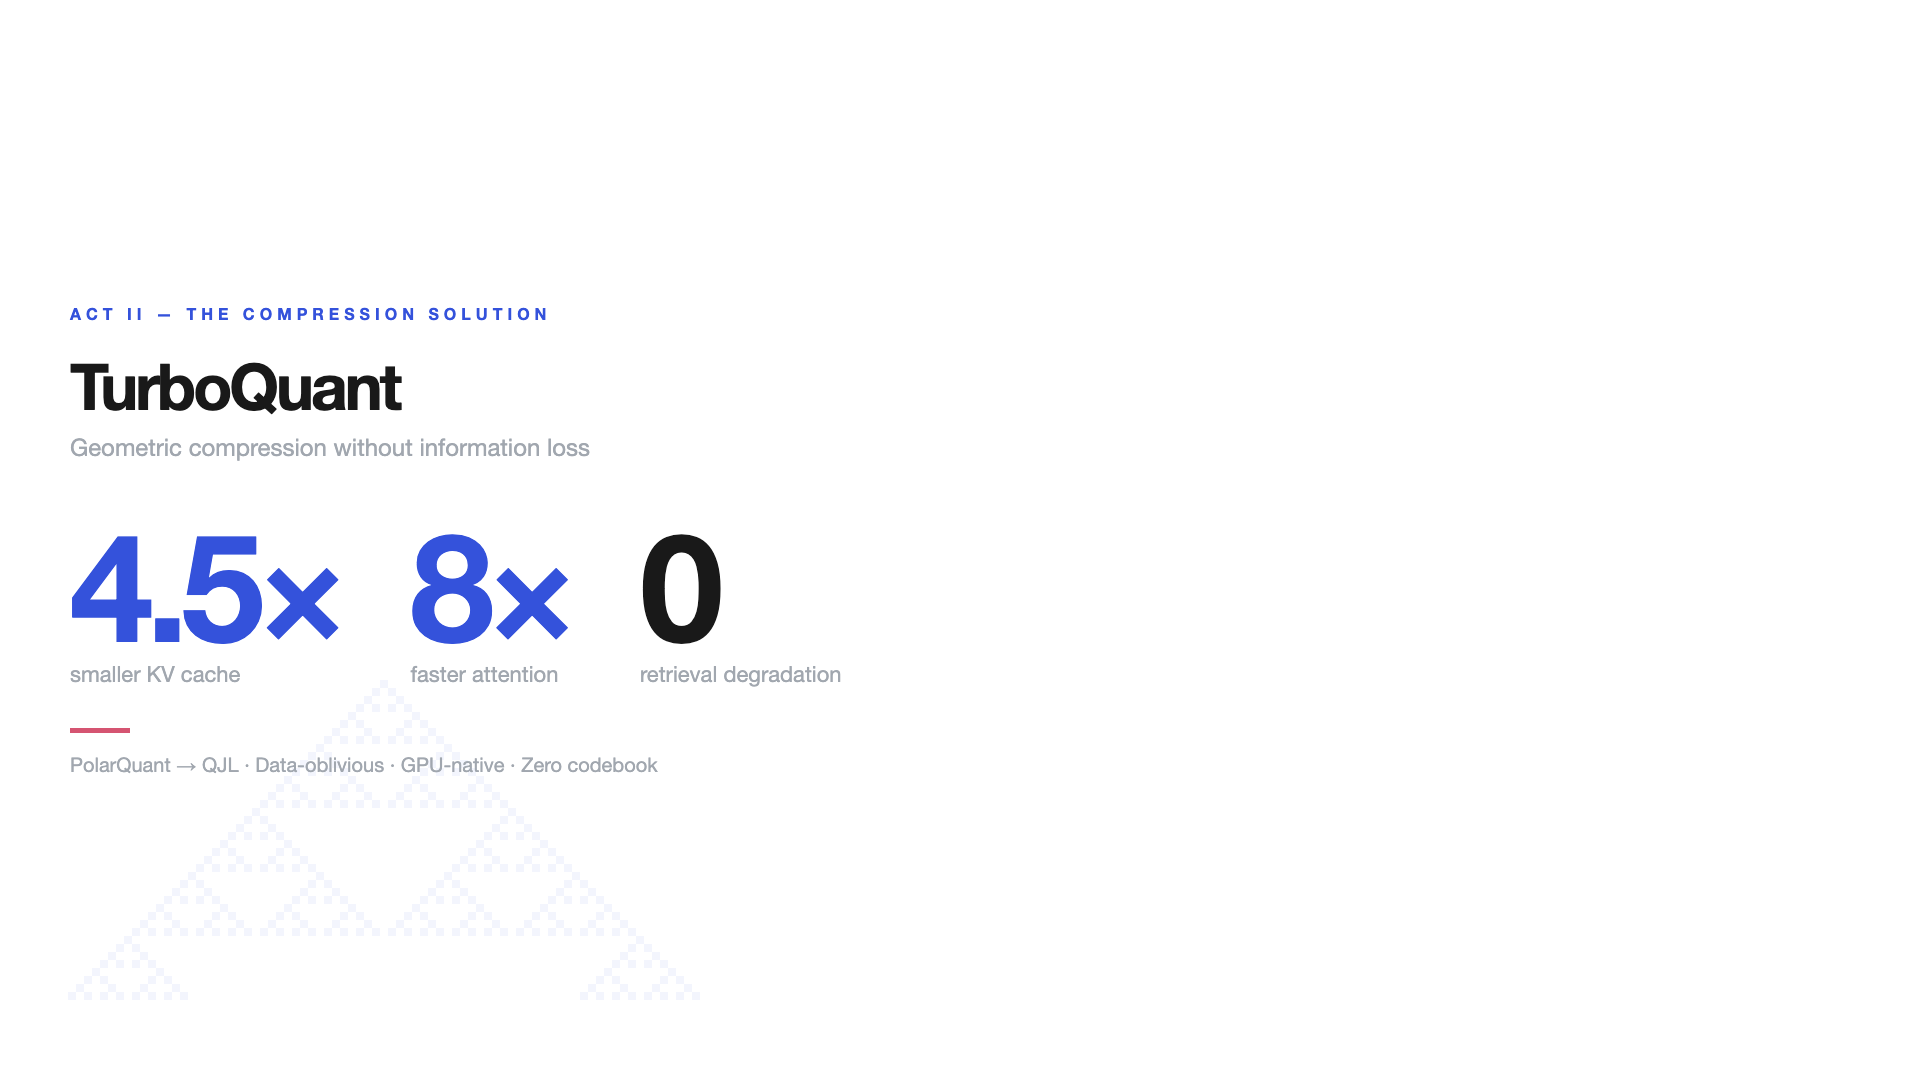
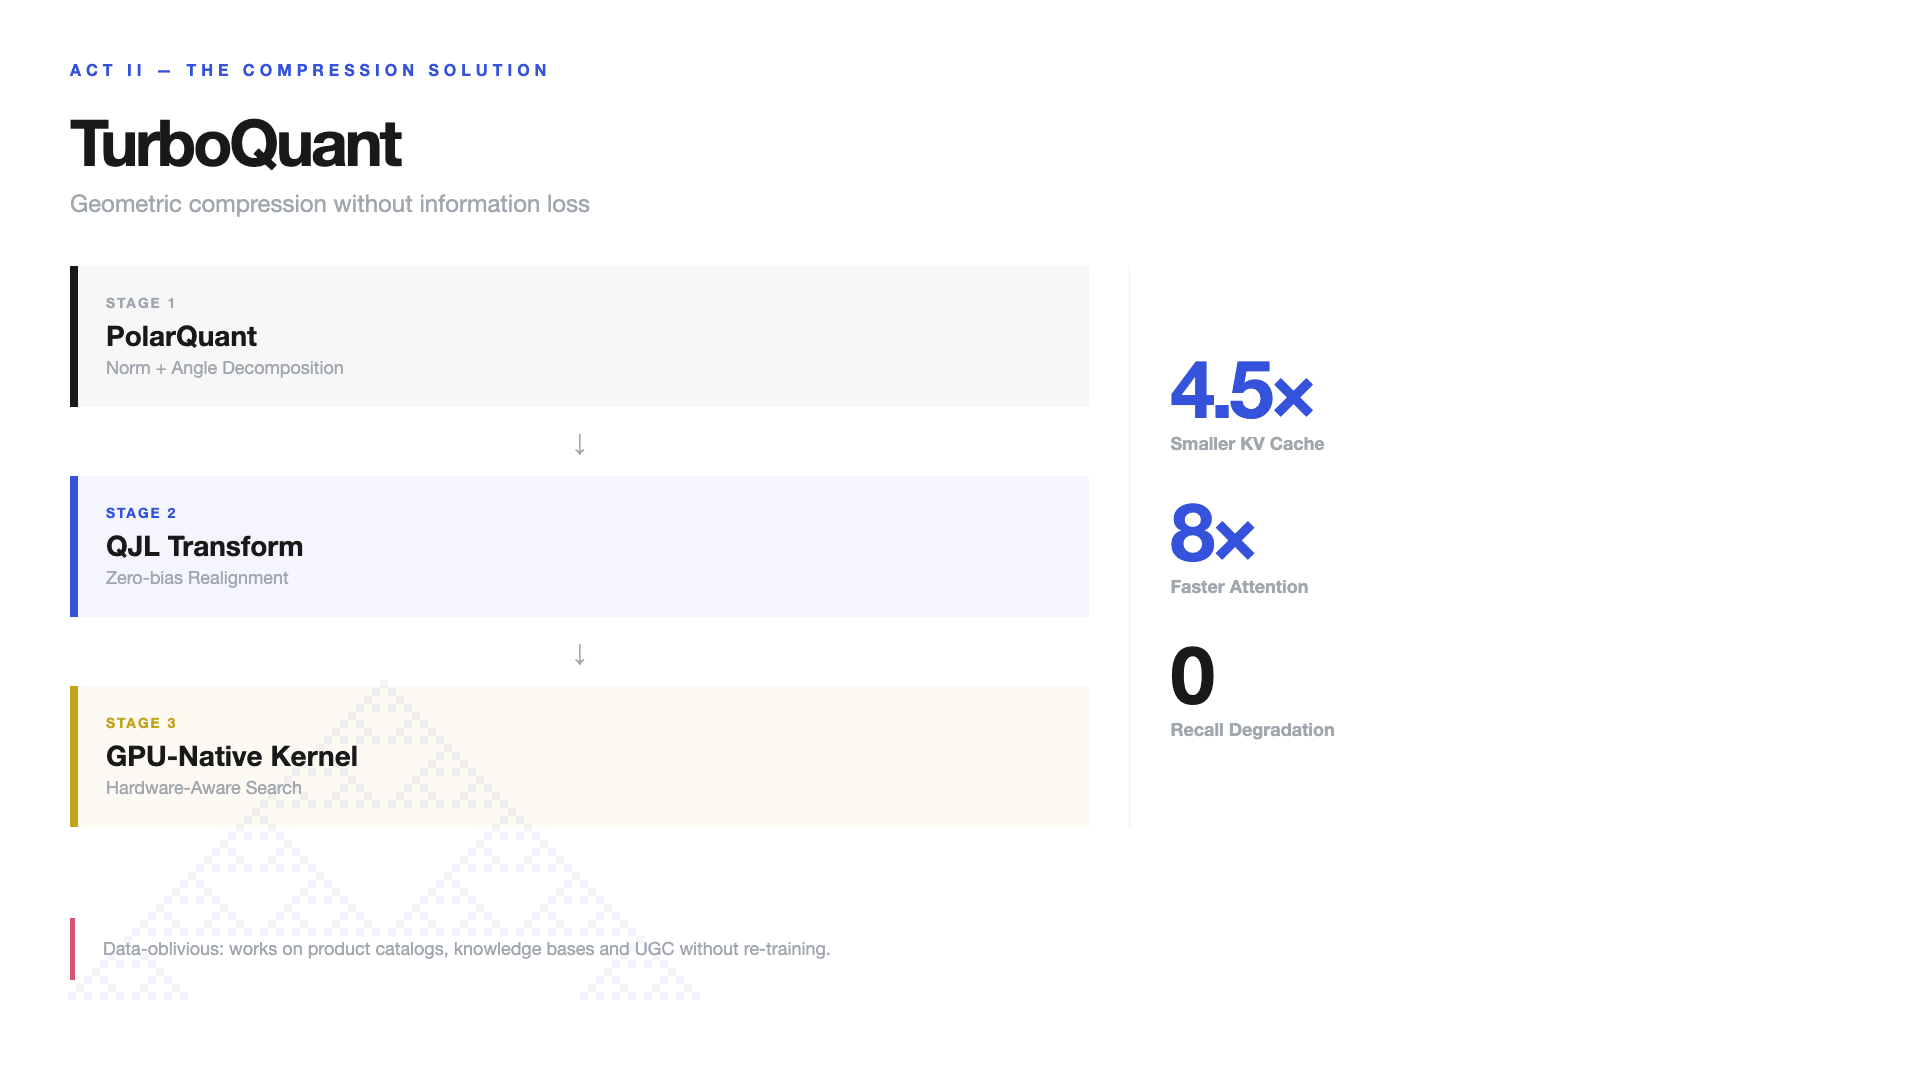
feat: updated TurboQuant slide 06 to 3-stage pipeline layout

diff --git a/generate_slides_v2_bold.py b/generate_slides_v2_bold.py
@@ -198,22 +198,57 @@ def slide_05():
     </div>""", ca)
 
 def slide_06():
+    """TurboQuant — Three Stage Pipeline — LIGHT"""
     ca = svg_grid(G90s, 40, 8, T['sky'], 0.06, 60, 680)
     return light(f"""
     <div class="section">Act II — The Compression Solution</div>
-    <div style="font-size:64px;font-weight:900;letter-spacing:-3px;color:{T['dark2']};">TurboQuant</div>
-    <div style="font-size:24px;color:{T['gray']};margin-top:8px;">Geometric compression without information loss</div>
-    <div style="display:flex;gap:70px;margin-top:56px;align-items:flex-end;">
-      <div><div style="font-size:150px;font-weight:900;line-height:0.9;color:{T['sky']};letter-spacing:-7px;">4.5×</div>
-        <div style="font-size:22px;color:{T['gray']};margin-top:8px;">smaller KV cache</div></div>
-      <div><div style="font-size:150px;font-weight:900;line-height:0.9;color:{T['sky']};letter-spacing:-7px;">8×</div>
-        <div style="font-size:22px;color:{T['gray']};margin-top:8px;">faster attention</div></div>
-      <div><div style="font-size:150px;font-weight:900;line-height:0.9;color:{T['dark2']};letter-spacing:-7px;">0</div>
-        <div style="font-size:22px;color:{T['gray']};margin-top:8px;">retrieval degradation</div></div>
+    <div style="font-size:64px;font-weight:900;letter-spacing:-3px;color:{T['dark2']};margin-bottom:8px;">TurboQuant</div>
+    <div style="font-size:24px;color:{T['gray']};margin-bottom:48px;">Geometric compression without information loss</div>
+    
+    <div style="display:flex;gap:40px;align-items:stretch;">
+      <!-- The Pipeline -->
+      <div style="flex:1.2;display:flex;flex-direction:column;gap:20px;">
+        <div style="padding:28px;background:rgba(0,0,0,0.03);border-left:8px solid {T['dark2']};">
+          <div style="font-size:14px;font-weight:700;color:{T['gray']};letter-spacing:2px;text-transform:uppercase;margin-bottom:8px;">Stage 1</div>
+          <div style="font-size:28px;font-weight:900;margin-bottom:4px;">PolarQuant</div>
+          <div style="font-size:18px;color:{T['gray']};">Norm + Angle Decomposition</div>
+        </div>
+        <div style="display:flex;justify-content:center;color:{T['gray']};font-size:24px;">↓</div>
+        <div style="padding:28px;background:rgba(52,82,219,0.05);border-left:8px solid {T['sky']};">
+          <div style="font-size:14px;font-weight:700;color:{T['sky']};letter-spacing:2px;text-transform:uppercase;margin-bottom:8px;">Stage 2</div>
+          <div style="font-size:28px;font-weight:900;margin-bottom:4px;">QJL Transform</div>
+          <div style="font-size:18px;color:{T['gray']};">Zero-bias Realignment</div>
+        </div>
+        <div style="display:flex;justify-content:center;color:{T['gray']};font-size:24px;">↓</div>
+        <div style="padding:28px;background:rgba(194,164,29,0.05);border-left:8px solid {T['sand']};">
+          <div style="font-size:14px;font-weight:700;color:{T['sand']};letter-spacing:2px;text-transform:uppercase;margin-bottom:8px;">Stage 3</div>
+          <div style="font-size:28px;font-weight:900;margin-bottom:4px;">GPU-Native Kernel</div>
+          <div style="font-size:18px;color:{T['gray']};">Hardware-Aware Search</div>
+        </div>
+      </div>
+
+      <!-- The Results -->
+      <div style="flex:0.8;display:flex;flex-direction:column;justify-content:center;gap:40px;padding-left:40px;border-left:1px solid #eee;">
+        <div>
+          <div style="font-size:80px;font-weight:900;line-height:0.9;color:{T['sky']};letter-spacing:-4px;">4.5×</div>
+          <div style="font-size:18px;color:{T['gray']};margin-top:8px;font-weight:700;">Smaller KV Cache</div>
+        </div>
+        <div>
+          <div style="font-size:80px;font-weight:900;line-height:0.9;color:{T['sky']};letter-spacing:-4px;">8×</div>
+          <div style="font-size:18px;color:{T['gray']};margin-top:8px;font-weight:700;">Faster Attention</div>
+        </div>
+        <div>
+          <div style="font-size:80px;font-weight:900;line-height:0.9;color:{T['dark2']};letter-spacing:-4px;">0</div>
+          <div style="font-size:18px;color:{T['gray']};margin-top:8px;font-weight:700;">Recall Degradation</div>
+        </div>
+      </div>
     </div>
-    <div class="bar" style="width:60px;background:{T['berry']};margin-top:40px;"></div>
-    <div style="font-size:20px;color:{T['gray']};margin-top:20px;">
-      PolarQuant → QJL · Data-oblivious · GPU-native · Zero codebook</div>""", ca)
+    
+    <div style="margin-top:auto;padding:20px 28px;border-left:5px solid {T['berry']};margin-bottom:40px;">
+      <div style="font-size:18px;color:{T['gray']};">
+        Data-oblivious: works on product catalogs, knowledge bases and UGC without re-training.
+      </div>
+    </div>""", ca)
 
 def slide_07():
     ca = svg_grid(G90, 30, 8, T['berry'], 0.05, 1200, 100)
